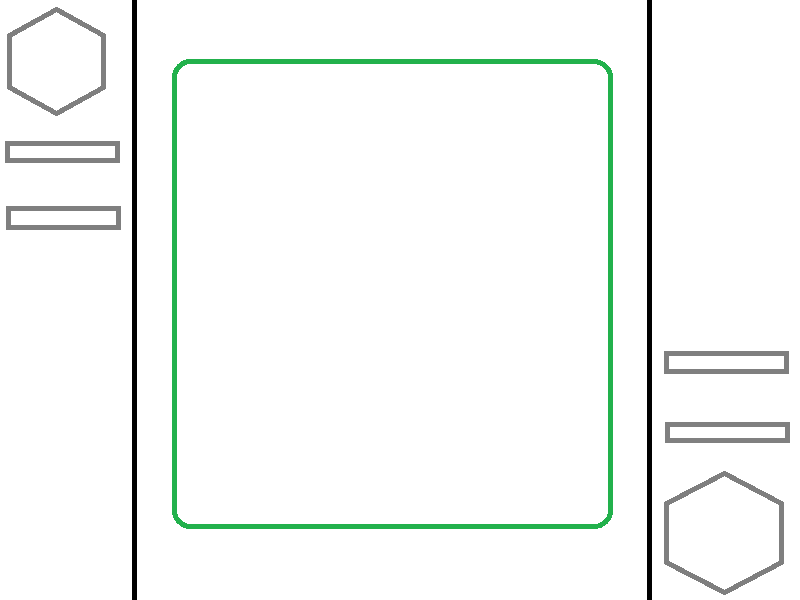
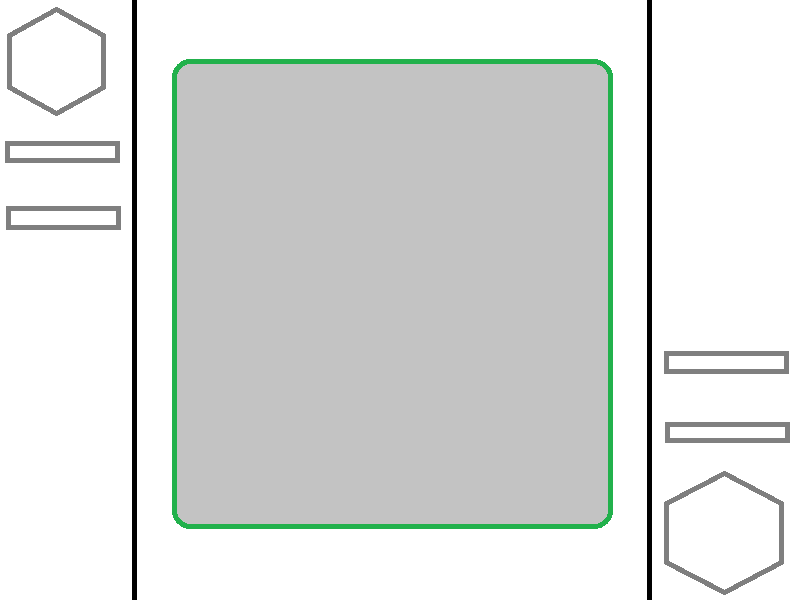
added some texture & changed texture viewing (still work in progress)

diff --git a/Templates/grid.js b/Templates/grid.js
@@ -1,5 +1,7 @@
 class Grid {
-    constructor(size) {
+    constructor(size, plantsPaths) {
+        this.plantsPaths = plantsPaths
+        // Array of plantPath of field plants
         this.size = size
         // Number of line/columns
         this.case_size = 20
@@ -9,17 +11,19 @@ class Grid {
         // Creates Rectangles Origins => Array of coordinates [[x, y], ...]
         this.propsList = new Array(Math.pow(this.size, 2))
         for (let i = 0; i < this.propsList.length; i++) {
-            this.propsList[i] = {"plant":0, "salinity": Math.random()*100, "water": Math.random()*100, "sunshine": Math.random()*100}
+            this.propsList[i] = {"salinity": Math.random()*100, "water": Math.random()*100, "sunshine": Math.random()*100}
+            // this.propsList[i].plant = 0
         }
         // Object of props for each case [{...}, {...}]
-        this.textures = ["plant", "salinity", "sunshine", "water"]
+        this.texturesPaths = ["salinity", "sunshine", "water"]
         // Path of textures
-        this.texturesRanges = {"plant": [0, 1],"salinity": [0, 100], "sunshine": [0, 100], "water": [0, 100]}
+        this.texturesRanges = {"salinity": [0, 100], "sunshine": [0, 100], "water": [0, 100]}
         // Range for each prop {"prop": [min, max]}
+        this.textures = []
     }
     draw() {
         // Still to make
-        return null
+        
     }
 
     setRects() {

diff --git a/Maps/Sansouire/MapSansouire.js b/Maps/Sansouire/MapSansouire.js
@@ -12,7 +12,7 @@ let plant1 = new Plant("Salicorne", {
     "salinity": 50,
     "water": 50,
     "sunshine": 50
-})
+}, "./assets/seamless-salicorne.jpg")
 let plant2 = new Plant("Soude", {
     "sun": -1,
     "cold_resistance": -1,
@@ -23,7 +23,7 @@ let plant2 = new Plant("Soude", {
     "salinity": 20,
     "water": 80,
     "sunshine": 50
-})
+}, "")
 let field = new Field("Sansouire", {
     "surface": 100, 
     "temperature": -    10, 
@@ -41,6 +41,10 @@ Game.MapSansouire.prototype = {
     create:function() {
         this.stage.backgroundColor = '#e9ffe8'
         let map = this.add.sprite(0, 0, 'SansouireField')
+        for (let pos of field.grid.rectanglesOrigins) {
+            this.add.sprite(pos[0], pos[1], "salicorne")
+            // console.log(pos)
+        }
     },
     update: function() {}
 

diff --git a/Templates/plant.js b/Templates/plant.js
@@ -1,5 +1,5 @@
 class Plant {
-    constructor(name, properties, ideal_conditions) {
+    constructor(name, properties, ideal_conditions, texturePath) {
         if (typeof name != "string") {
             throw "Name of plant has to be string";
         }
@@ -12,6 +12,7 @@ class Plant {
         this.name = name
         this.properties = properties
         this.ideal_conditions = ideal_conditions
+        this.texturePath = texturePath
     }
     applyEvent(event) {
         let prop, mod

diff --git a/Loading/Preloader.js b/Loading/Preloader.js
@@ -8,6 +8,7 @@ Game.Preloader.prototype = {
         // Load all assets
         this.load.spritesheet('buttons', './assets/buttons.png', 208, 59)
         this.load.image('SansouireField', 'assets/MapSansouire.png')
+        this.load.image('salicorne', 'assets/seamless_salicorne.jpg')
     },
     create: function() {
         this.phaserImage = this.add.sprite(this.world.centerX,

diff --git a/Templates/field.js b/Templates/field.js
@@ -12,7 +12,7 @@ class Field {
         this.name = name
         this.properties = properties
         this.plants = plants
-        this.grid = new Grid(10)
+        this.grid = new Grid(10, [this.plants[0].texturePath, this.plants[1].texturePath])
         this.grid.setProps(0, 0, {"plant": 1})
     }
 
